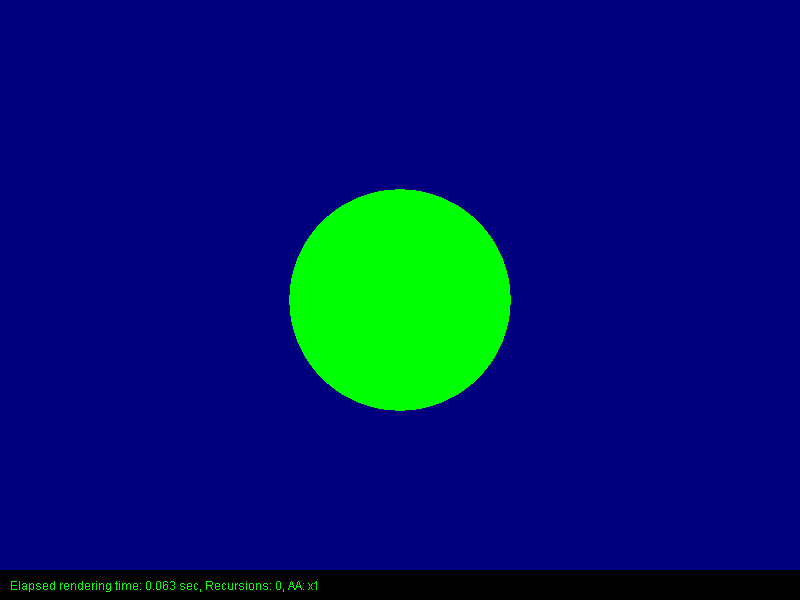
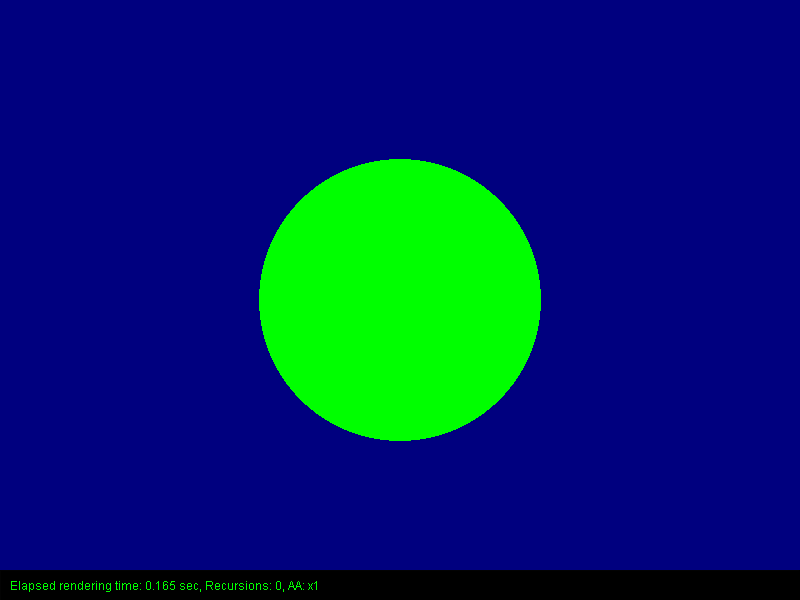
improvement + fixed y

Changed region(s): [[0.3125, 0.24, 0.6875, 0.75]]

diff --git a/VCG_Raytracer/src/scene/shape/Sphere.java b/VCG_Raytracer/src/scene/shape/Sphere.java
@@ -25,19 +25,17 @@ public class Sphere extends Shape{
         Vec3 start = ray.getOrigin();
         Vec3 direction = ray.getDirection();
 
-        Vec3 start2end = start.sub(direction);
-
         //A = (float) Math.pow(checkRay.x, 2) + (float) Math.pow(checkRay.y, 2) + (float) Math.pow(checkRay.z, 2);
         //ist das selbe wie
         A = direction.scalar(direction);
     
         //B = (float) (2 * (camPos.x * checkRay.x + camPos.y * checkRay.y + camPos.z * checkRay.z));
         //ist das selbe wie
-        B = 2.0f * start2end.scalar(direction);
+        B = 2.0f * start.scalar(direction);
 
         //C = (float) (Math.pow(camPos.x,2) + Math.pow(camPos.y,2) + Math.pow(camPos.z,2) - Math.pow(radius,2));
         //ist das selbe wie
-        C = start2end.scalar(start2end) - radius * radius;
+        C = start.scalar(start) - radius * radius;
 
         float diskriminante = (float) (Math.pow(B, 2) - 4 * C);
         

diff --git a/VCG_Raytracer/src/scene/camera/PerspCam.java b/VCG_Raytracer/src/scene/camera/PerspCam.java
@@ -36,7 +36,7 @@ public class PerspCam extends Camera {
 
         // Pixel into viewplane coordinates normed
         float pNorm_x = (2f * (targetPixel.x + 0.5f) / (windowSize.x)) - 1f;
-        float pNorm_y = (2f * (targetPixel.y + 0.5f) / (windowSize.y)) - 1f;
+        float pNorm_y = - (2f * (targetPixel.y + 0.5f) / (windowSize.y)) + 1f;
 
         // [-1,1] → [0,1]
         float s = (pNorm_x + 1f) * 0.5f;

diff --git a/VCG_Raytracer/src/scene/shape/Shape.java b/VCG_Raytracer/src/scene/shape/Shape.java
@@ -9,9 +9,7 @@ public abstract class Shape extends SceneObject {
     protected Intersection intersectionData;
     
     //prob another place for polymorphism
-    public void intersect(Ray checkRay){
-        System.err.println("PLEASE USE SUBCLASS NOT SUPERCLASS SHAPE");
-    };
+    public abstract void intersect(Ray checkRay);
 
     public abstract Intersection getIntersectionData();
 

diff --git a/VCG_Raytracer/src/scene/Scene.java b/VCG_Raytracer/src/scene/Scene.java
@@ -20,8 +20,8 @@ public class Scene {
     {
         shapeList = new ArrayList<Shape>();
         lightList = new ArrayList<Light>();
-        createSphere(new Vec3(50,30,2), 1f);
-        createSphere(new Vec3(-30,0,0), 0f);
+        createSphere(new Vec3(1,3,0), 1.25f);
+        createSphere(new Vec3(0,0,0), 0.75f);
         Log.print(this, "Init");
     }
 
